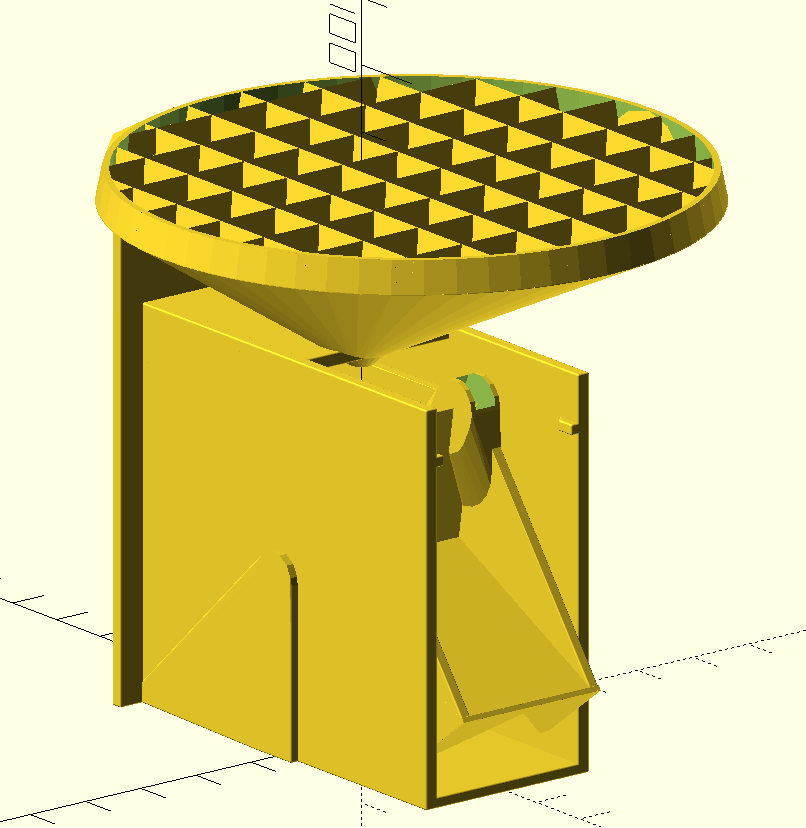
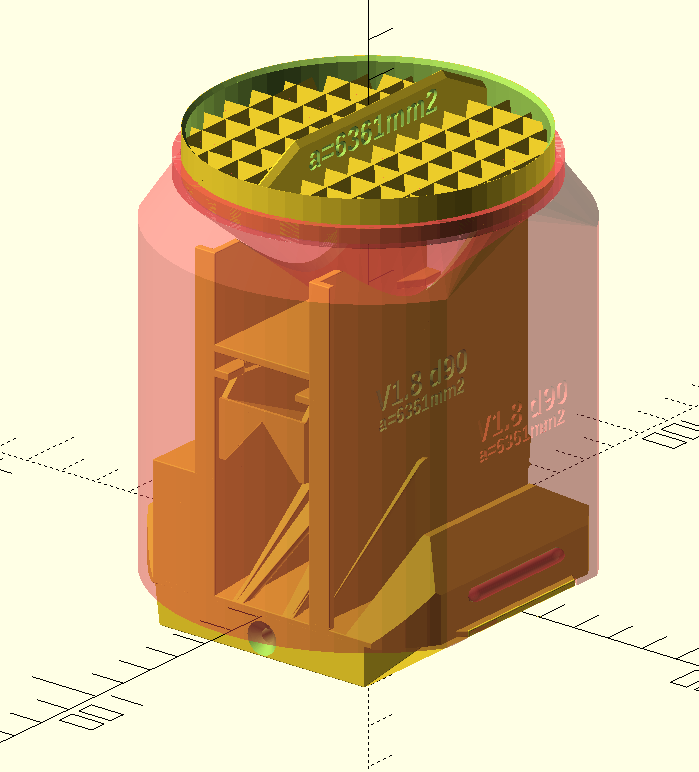
Updated rainmeter documentation and picture.

diff --git a/3d-models/README.md b/3d-models/README.md
@@ -968,22 +968,17 @@ escaped the form and the wheel was ruined beyond repair. Maybe someone has use f
 
 ### Makefile.rainmeter
 
-(Electronics and weather cover still in progress)
-
 A simple rain meter, which uses balanced cups to meter amount of
-rain. Set print=1 in openscad to get printable model. 
+rain. Use the Makefile to build the parts.
 
 The hole for magnet is designed round magnet which has diameter of
-6.4mm and thickness of 3.2mm. A drop of superglue should keep it in
+6.4mm and thickness of 3.2mm. 
 place.
-
-Electronics (not yet done) will consist of ESP32 and reed switch, to
-allow reading the values remotely.
 
 No supports are needed to print. The openscad file includes option
 "adhesion" which is enabled by default, this will create some adhesion
 structures around higher objects or objects which have shown tendency
-to warp. You can disable this option and use printer's brim if these
+to warp. You can disable this option and use slicer's brim if these
 do not work well enough.
 
 Makefile will make all parts. These include:
@@ -999,14 +994,16 @@ Makefile will make all parts. These include:
 - Attachments for flat surface, a 62mm pole, and vertical
   surface. These all assume 35mm wood screws to be used. The unit
   itself will stand on flat surface, but can be screwed into place
-  with flat attachment.
+  with flat attachment. The attachments use a clip to keep the unit in
+  place, but you can use a 3.5mm screw to secure the unit.
 
 - Plastic tweezers to help putting magnet into its slot.
 
 - Very small part to lock the magnet in place after the magnet is in
   its slot. Narrow bent-nose pliers are very useful to install this
-  after. This allows magnets to be recovered from the print. The lock
-  part has a tiny ball clip and keeps it in place quite well.
+  after putting the magnet in. This allows magnets to be recovered
+  from the print later. The lock part has a tiny ball clip and keeps
+  the magnet in place quite well.
 
 - A tool to help placing the magnet into its slot. This does not work
   very well and it is overkill anyway, so this is not printed by
@@ -1015,23 +1012,23 @@ Makefile will make all parts. These include:
   somewhere. This part requires accurate printer.
 
 - rainmeterall.stl will print all parts except wall and pole
-  attachments and magnet tool. Pick the one which you will use and
+  attachments and magnet tool. Pick the attachment which you will use and
   print that.
 
 - rainmeterattachments.stl will print both wall and 62pole attachments, as
-  those are the largest.
+  those are the largest. This is in case you have use for both.
 
-- hallmetersensortester.stl is a addition to test hall sensor. In the
+- hallmetersensortester.stl is an addition to test hall sensor. In the
   end we used reed switch so this is obsolete.
 
 - rainmetermagnetsensorbase.stl makes an electronics box for
   reedswitch board and d1mini. If you want to use some other
   electronics, modify this to suit your implementation.
 
-We used d1mini with a reedswitch between GND and pin 4 to detect
-swing. With the 90mm funnel it corresponds to 1.62mm of rain for a
-swing, so this is not very accurate. Making cups smaller and making
-funnel larger would increase resolution. 
+We used d1mini esp32 board with a reedswitch between GND and pin 4 to
+detect swing. With the 90mm funnel it corresponds to 1.62mm of rain
+for a swing, so this is not very accurate. Making cups smaller and
+making funnel larger would increase resolution.
 
 ![rainmeter in Openscad.](rainmeter.png)
 
